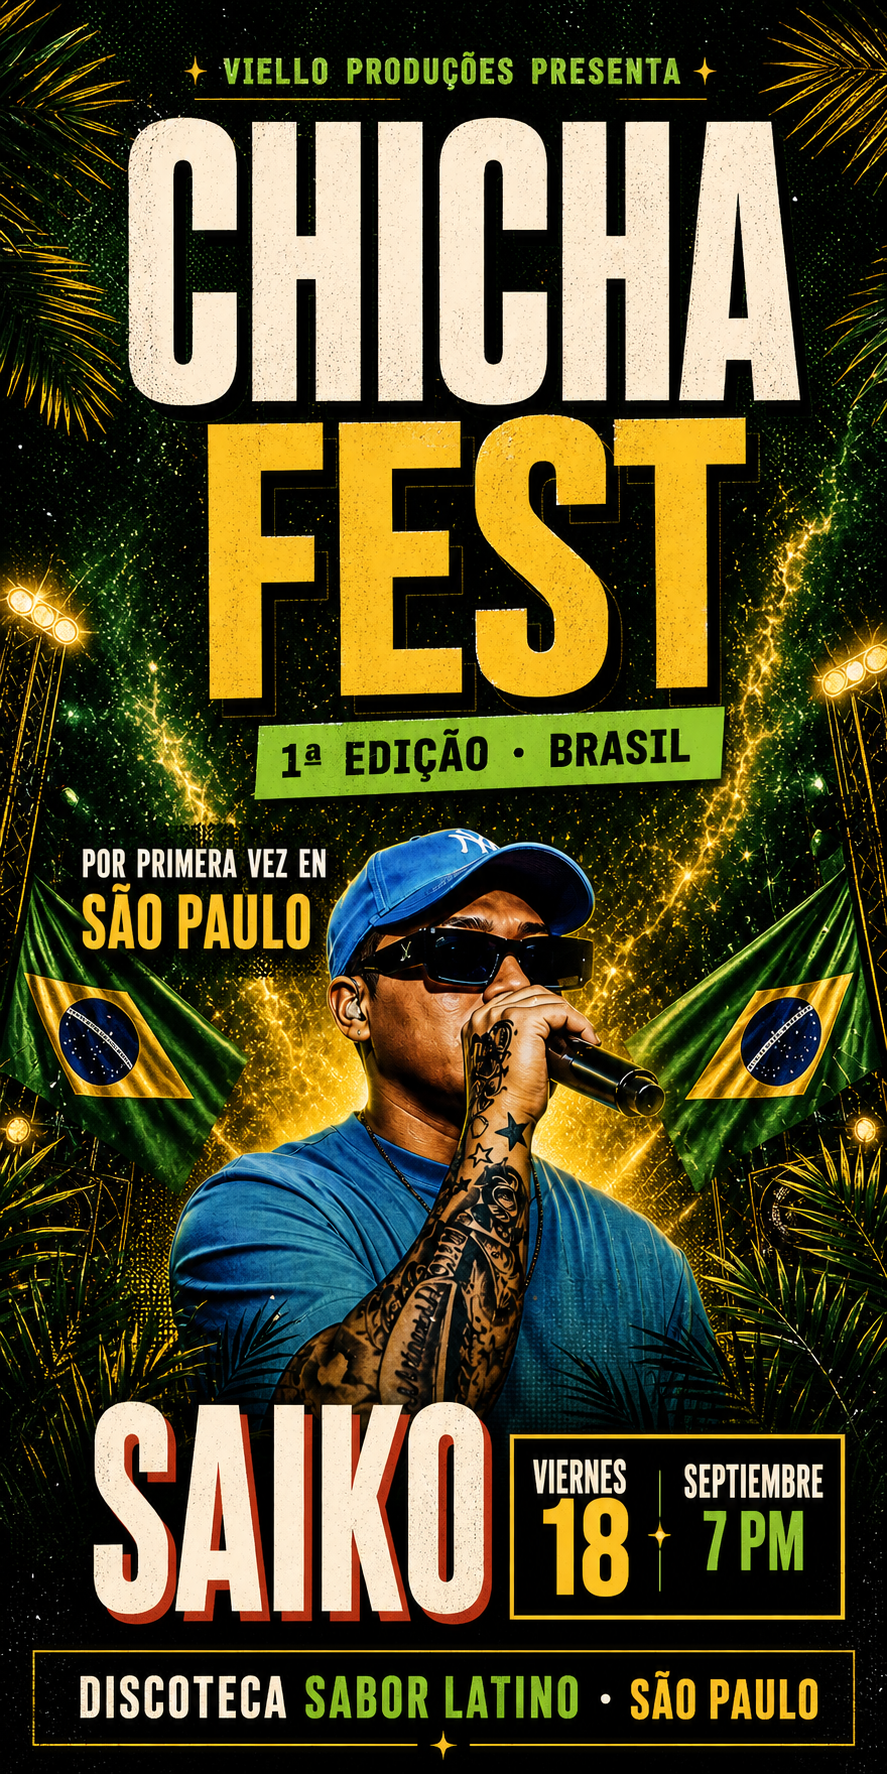
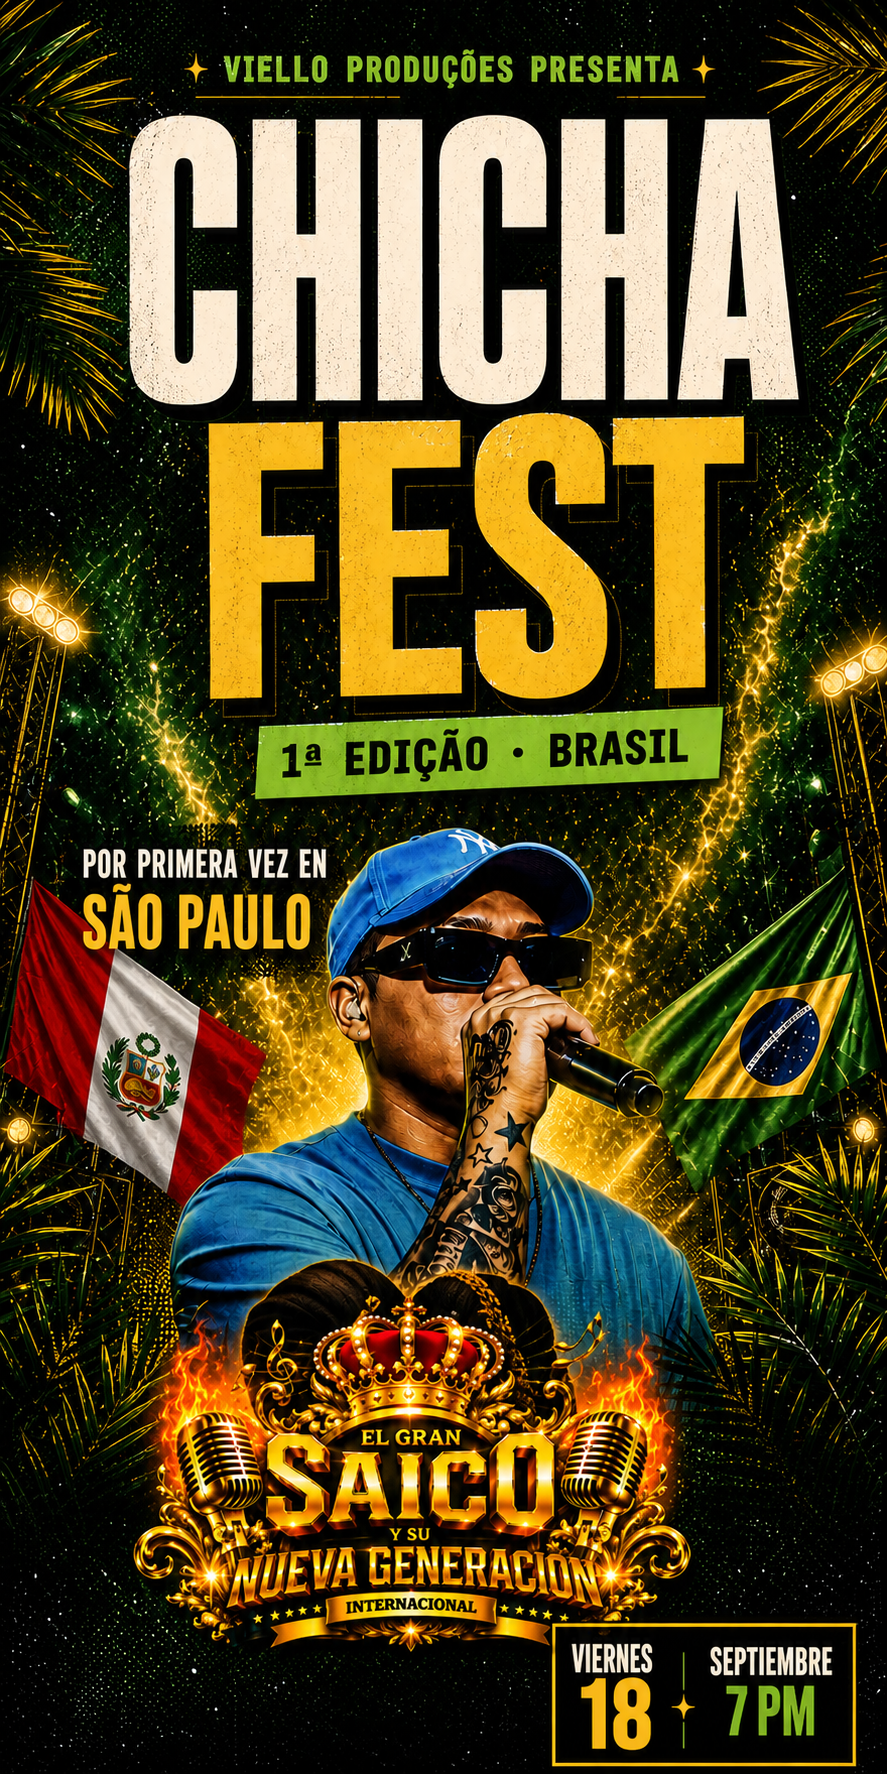
Refresh artist poster and add venue map

diff --git a/src/App.vue b/src/App.vue
@@ -10,7 +10,7 @@ function buy(p){plan.value=p;modal.value=true}
   <section class="music"><div class="eyebrow">SOUNDSYSTEM</div><h2>El gran Saiko<br><em>y su nueva generación.</em></h2><iframe title="Saiko en Spotify" src="https://open.spotify.com/embed/artist/1P7ibSNMQ2VTi5YDBvwBO1?utm_source=generator&theme=0" width="100%" height="352" frameBorder="0" allow="autoplay; clipboard-write; encrypted-media; fullscreen; picture-in-picture" loading="lazy"></iframe></section>
   <section class="tickets"><div class="price-board"><header><b>SECTORES</b><div class="presale-stack"><b>PREVENTA</b><img src="/logo-remesas-white.svg" alt="Remesas.com" /><small>HASTA 10 SEPT.</small></div><b>PRECIO FULL</b></header><div class="price-row"><div class="zone"><i class="dot yellow"></i><strong>VIP</strong></div><span>R$ <b>190</b><sup>.00</sup></span><em>R$ <b>400</b><sup>.00</sup></em></div><div class="price-row"><div class="zone"><i class="dot white"></i><strong>GENERAL</strong></div><span>R$ <b>150</b><sup>.00</sup></span><em>R$ <b>300</b><sup>.00</sup></em></div><div class="price-row"><div class="zone"><i class="dot green"></i><strong>BOX x5</strong></div><span>R$ <b>900</b><sup>.00</sup></span><em>R$ <b>2,000</b><sup>.00</sup></em></div><div class="price-row"><div class="zone"><i class="dot green"></i><strong>BOX x10</strong></div><span>R$ <b>1,500</b><sup>.00</sup></span><em>R$ <b>3,000</b><sup>.00</sup></em></div><button class="reserve-wide" @click="buy('Preventa Remesas')">COMPRAR ENTRADAS <span>↗</span></button></div><div class="vip-detail"><b>VIP INCLUYE</b><span>Acceso preferencial · mejor ubicación · experiencia exclusiva</span></div></section>
 
-
+  <section class="location-section"><div class="eyebrow">NOS VEMOS EN</div><h2>DISCOTECA<br><em>Sabor Latino.</em></h2><address><strong>AV. GUILHERME COTCHING, 481</strong><span>VILA MARIA · SÃO PAULO</span></address><div class="map-frame"><iframe title="Mapa de Discoteca Sabor Latino" src="https://www.google.com/maps?q=Av.%20Guilherme%20Cotching%2C%20481%2C%20Vila%20Maria%2C%20S%C3%A3o%20Paulo&amp;output=embed" width="100%" height="360" style="border:0" loading="lazy" referrerpolicy="no-referrer-when-downgrade" allowfullscreen></iframe></div><a class="map-link" href="https://www.google.com/maps/search/?api=1&amp;query=Av.%20Guilherme%20Cotching%2C%20481%2C%20Vila%20Maria%2C%20S%C3%A3o%20Paulo" target="_blank" rel="noopener">ABRIR EN GOOGLE MAPS <span>↗</span></a></section>
   <footer class="viello-footer"><img src="/viello-footer.png" alt="Viello Producciones — Eventos que se sienten" /><small>© 2026 VIELLO PRODUCCIONES · SÃO PAULO</small></footer>
   <button class="buy-dock" @click="buy('Entrada individual · R$ 100')">COMPRAR ENTRADAS <span>↗</span></button><a class="float-wa" href="https://wa.me/5511988662162" target="_blank" aria-label="WhatsApp">◔</a>
   <div v-if="modal" class="modal-wrap" @click.self="modal=false"><form class="modal" @submit.prevent="modal=false"><button type="button" class="x" @click="modal=false">×</button><div class="eyebrow">RESERVA · CHICHA FEST</div><h2>{{plan}}</h2><label>Nombre<input required placeholder="Tu nombre" /></label><label>WhatsApp<input required placeholder="+55 ..." /></label><label>Correo<input type="email" required placeholder="tu@email.com" /></label><button class="main-cta">CONTINUAR AL PAGO <span>↗</span></button></form></div>

diff --git a/src/style.css b/src/style.css
@@ -17,3 +17,6 @@
 /* Presale identity is the title cell of the first price column */
 .pricing-head{display:none}.tickets .price-board header{align-items:end;padding-bottom:14px}.presale-stack{display:flex;flex-direction:column;align-items:center;gap:5px;text-align:center;min-width:0}.presale-stack b{font:clamp(18px,4.2vw,30px)/.9 'Bebas Neue';letter-spacing:1px;color:#fff}.presale-stack img{display:block;width:100%;max-width:190px;height:auto}.presale-stack small{font:clamp(8px,2vw,13px) 'DM Mono';letter-spacing:.8px;color:var(--yellow);white-space:nowrap}.tickets .price-board header>b:first-child{align-self:end}.tickets .price-board header>b:last-child{align-self:end;text-align:center}
 @media(min-width:700px){.tickets .price-board header{padding-bottom:20px}.presale-stack{gap:7px}.presale-stack b{font-size:34px}.presale-stack img{max-width:250px}.presale-stack small{font-size:14px}}
+
+/* Venue and map live below the event content, outside the generated cover */
+.location-section{padding:62px 22px 36px;border-top:1px solid #3a2630;background:radial-gradient(circle at 15% 10%,#3b1722,transparent 42%),#090607}.location-section h2{margin-bottom:28px}.location-section address{display:flex;flex-direction:column;gap:6px;padding:18px 16px;border:1px solid #72502d;border-left:5px solid var(--yellow);background:#120d0e;font-style:normal}.location-section address strong{font:clamp(22px,6vw,34px)/1 'Bebas Neue';letter-spacing:1px;color:var(--yellow)}.location-section address span{font:12px 'DM Mono';letter-spacing:1.3px;color:#fff}.map-frame{margin-top:18px;border:2px solid var(--yellow);background:#111;overflow:hidden}.map-frame iframe{display:block;filter:saturate(.85) contrast(1.08)}.map-link{display:flex;justify-content:space-between;align-items:center;margin-top:12px;padding:17px 16px;background:var(--yellow);color:#111;text-decoration:none;font-weight:700;font-size:13px}.map-link span{font-size:20px}@media(min-width:700px){.location-section{max-width:920px;margin:auto;padding:78px 32px 48px}.location-section address{padding:24px}.map-frame iframe{height:430px}}
